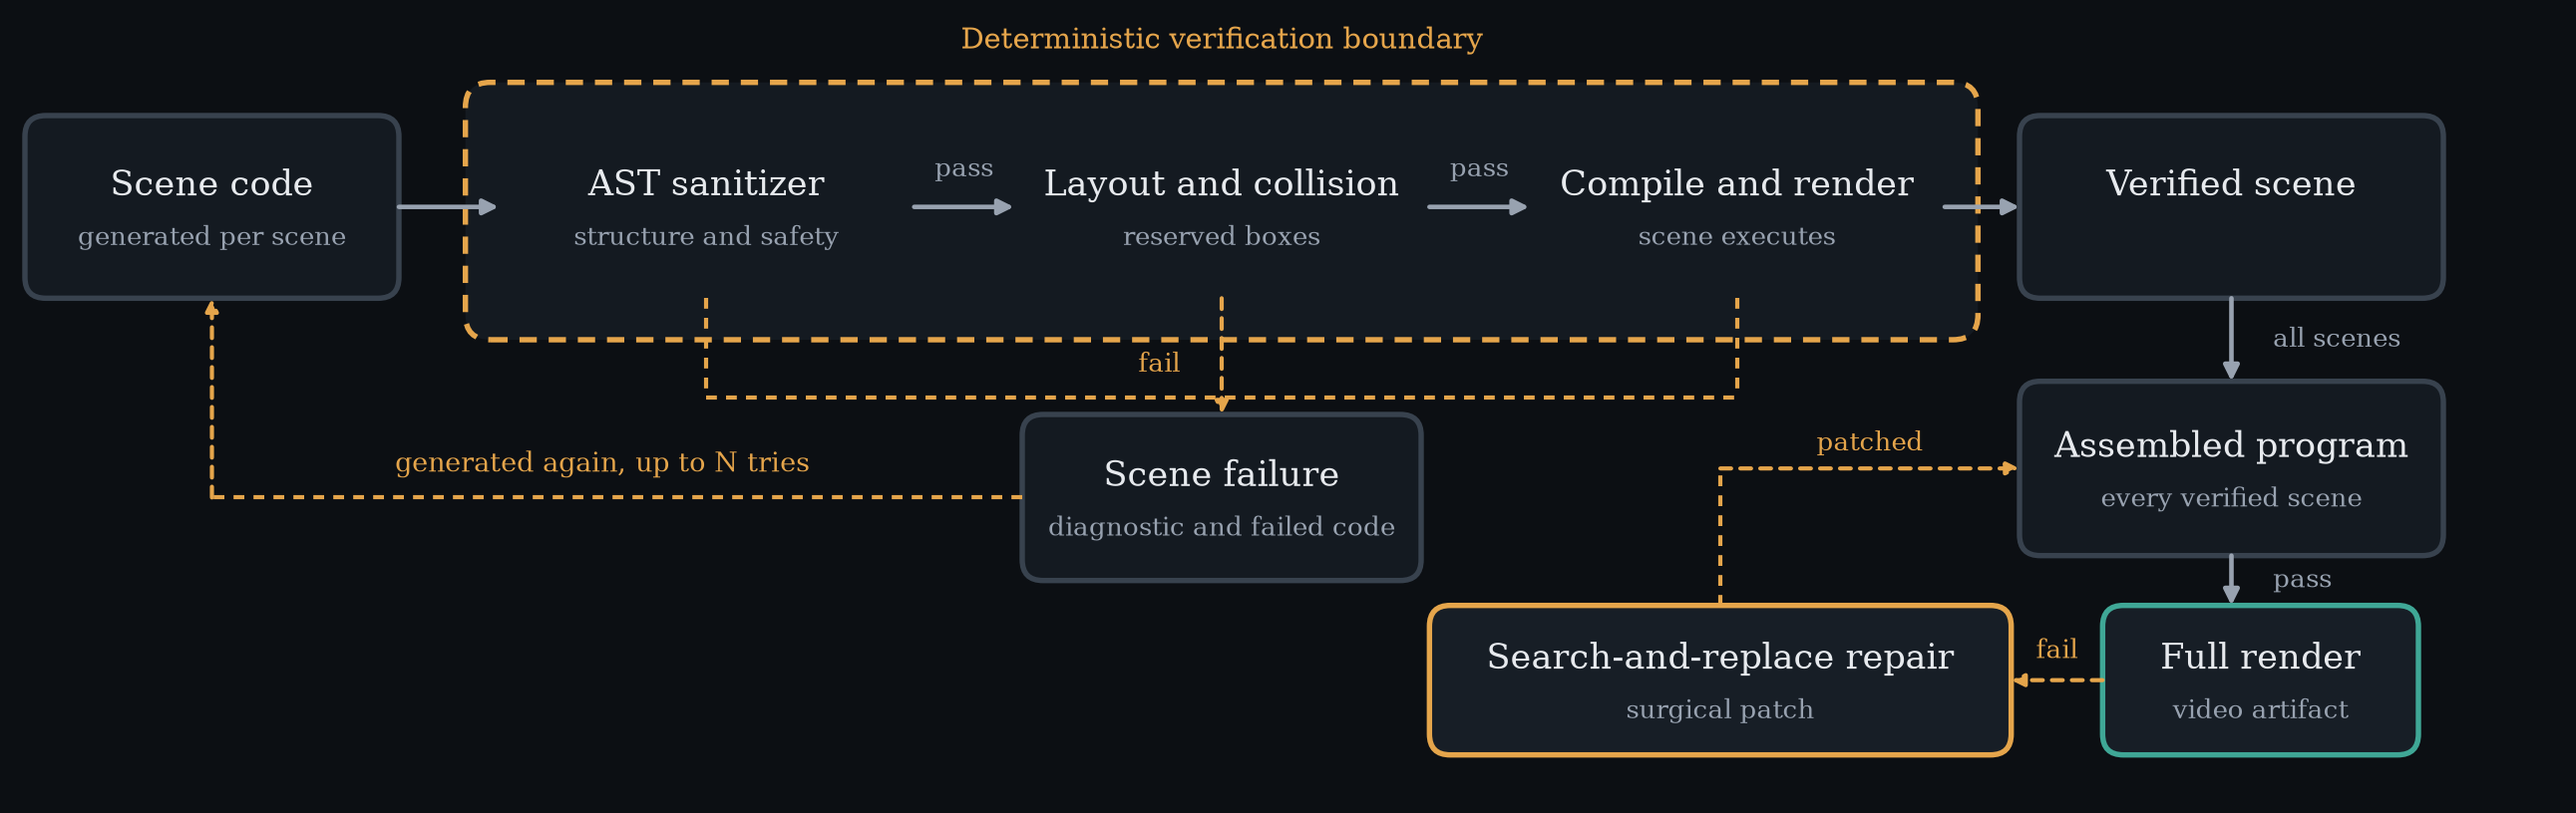
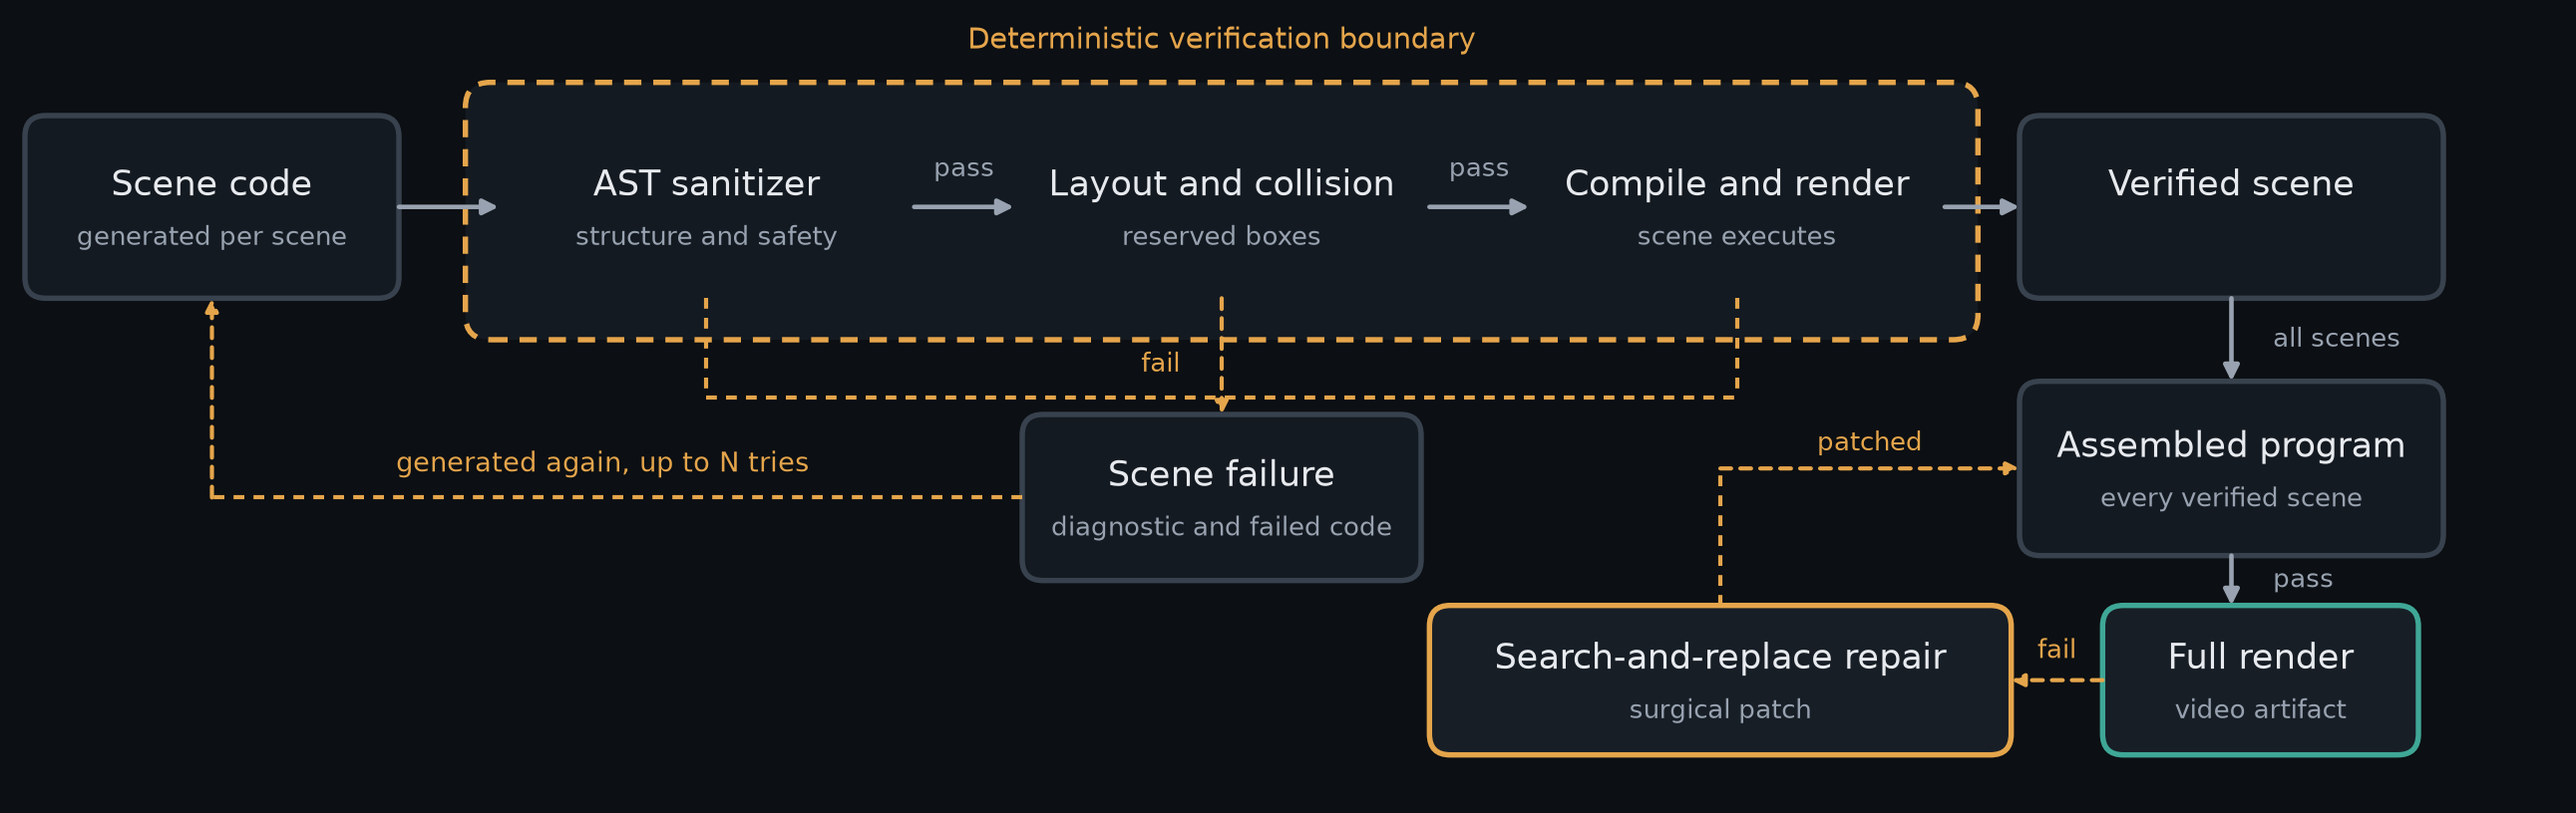
figures: set framework figures in DejaVu Sans
Matches the deck's sans typography and the existing chart figures. Sans is
slightly narrower than the serif here, so every measured fit still holds with
margin; no sizes changed. Text is set from measured widths via
tools/measurements, not guessed.

diff --git a/tools/framework_figure.py b/tools/framework_figure.py
@@ -40,7 +40,7 @@ REPO = Path(__file__).resolve().parent.parent
 OUT = REPO / "reports" / "figures"
 
 W, H = 620.0, 196.0          # pt; matches the deck's figure area 1:1
-FONT = "DejaVu Serif"
+FONT = "DejaVu Sans"      # matches the deck's sans typography and the chart figures
 
 PALETTES = {
     "dark": {
